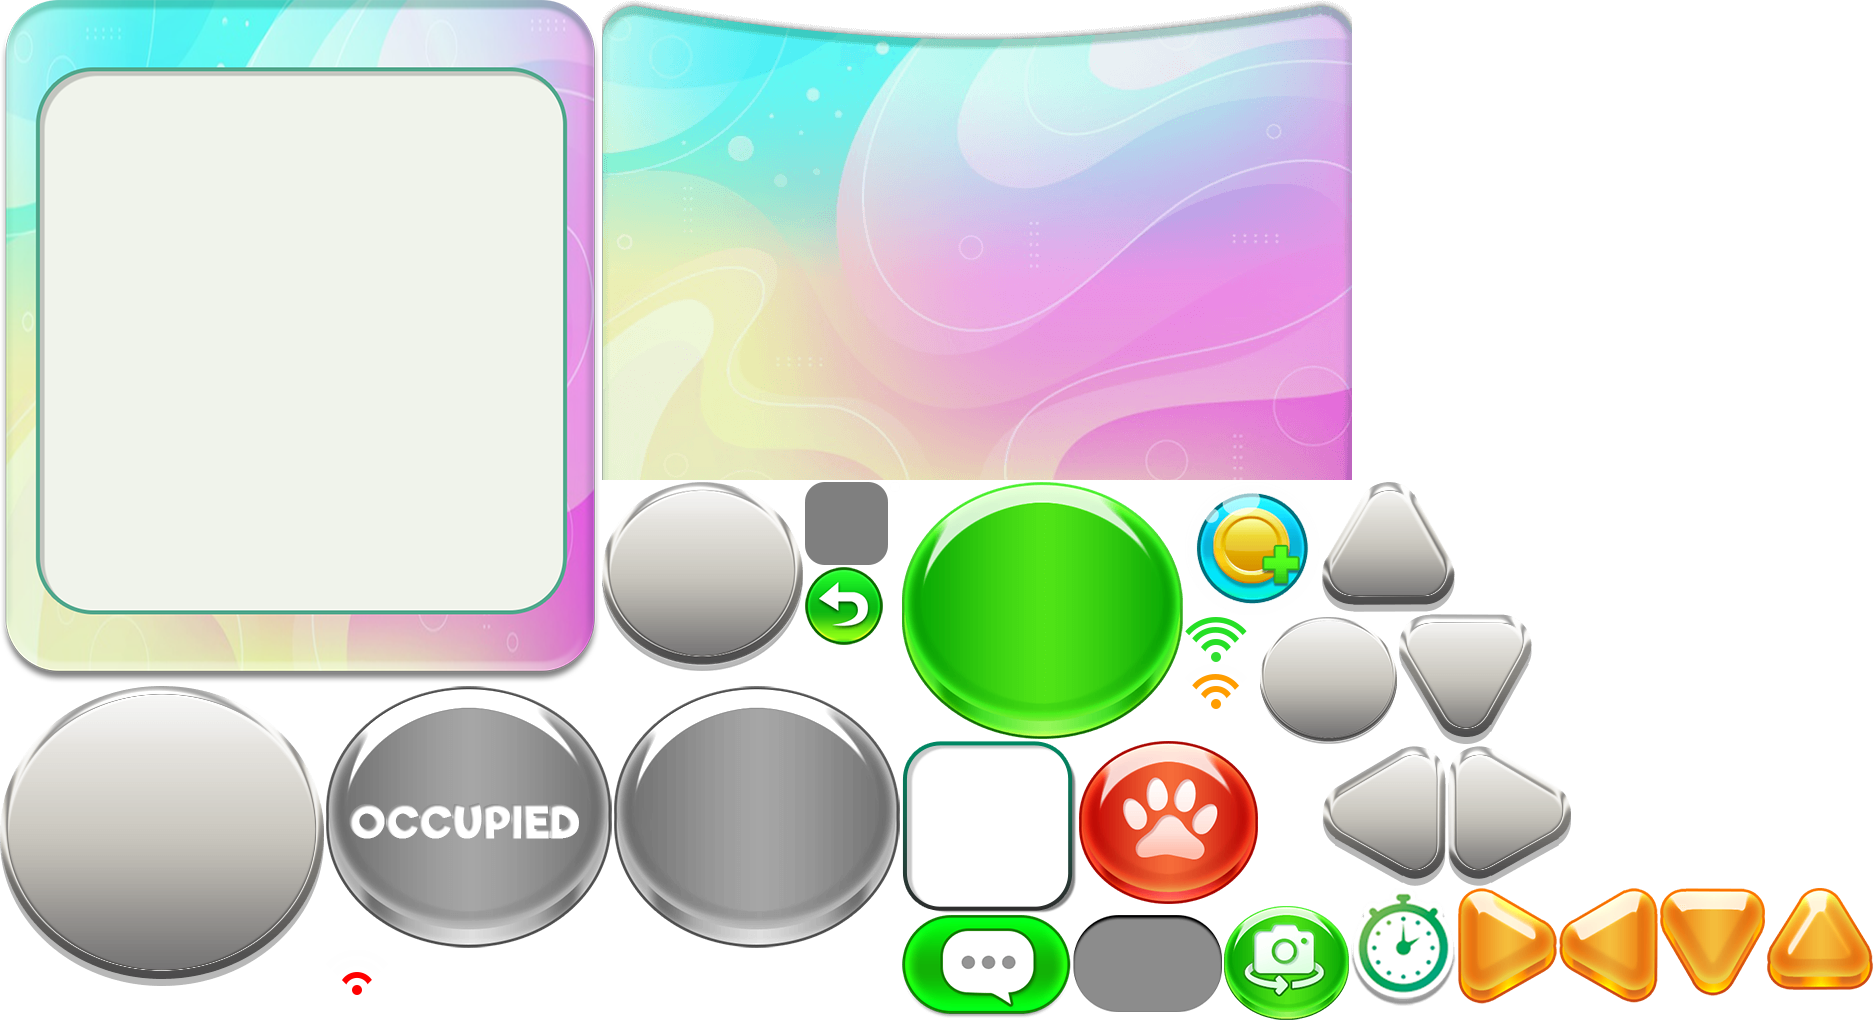
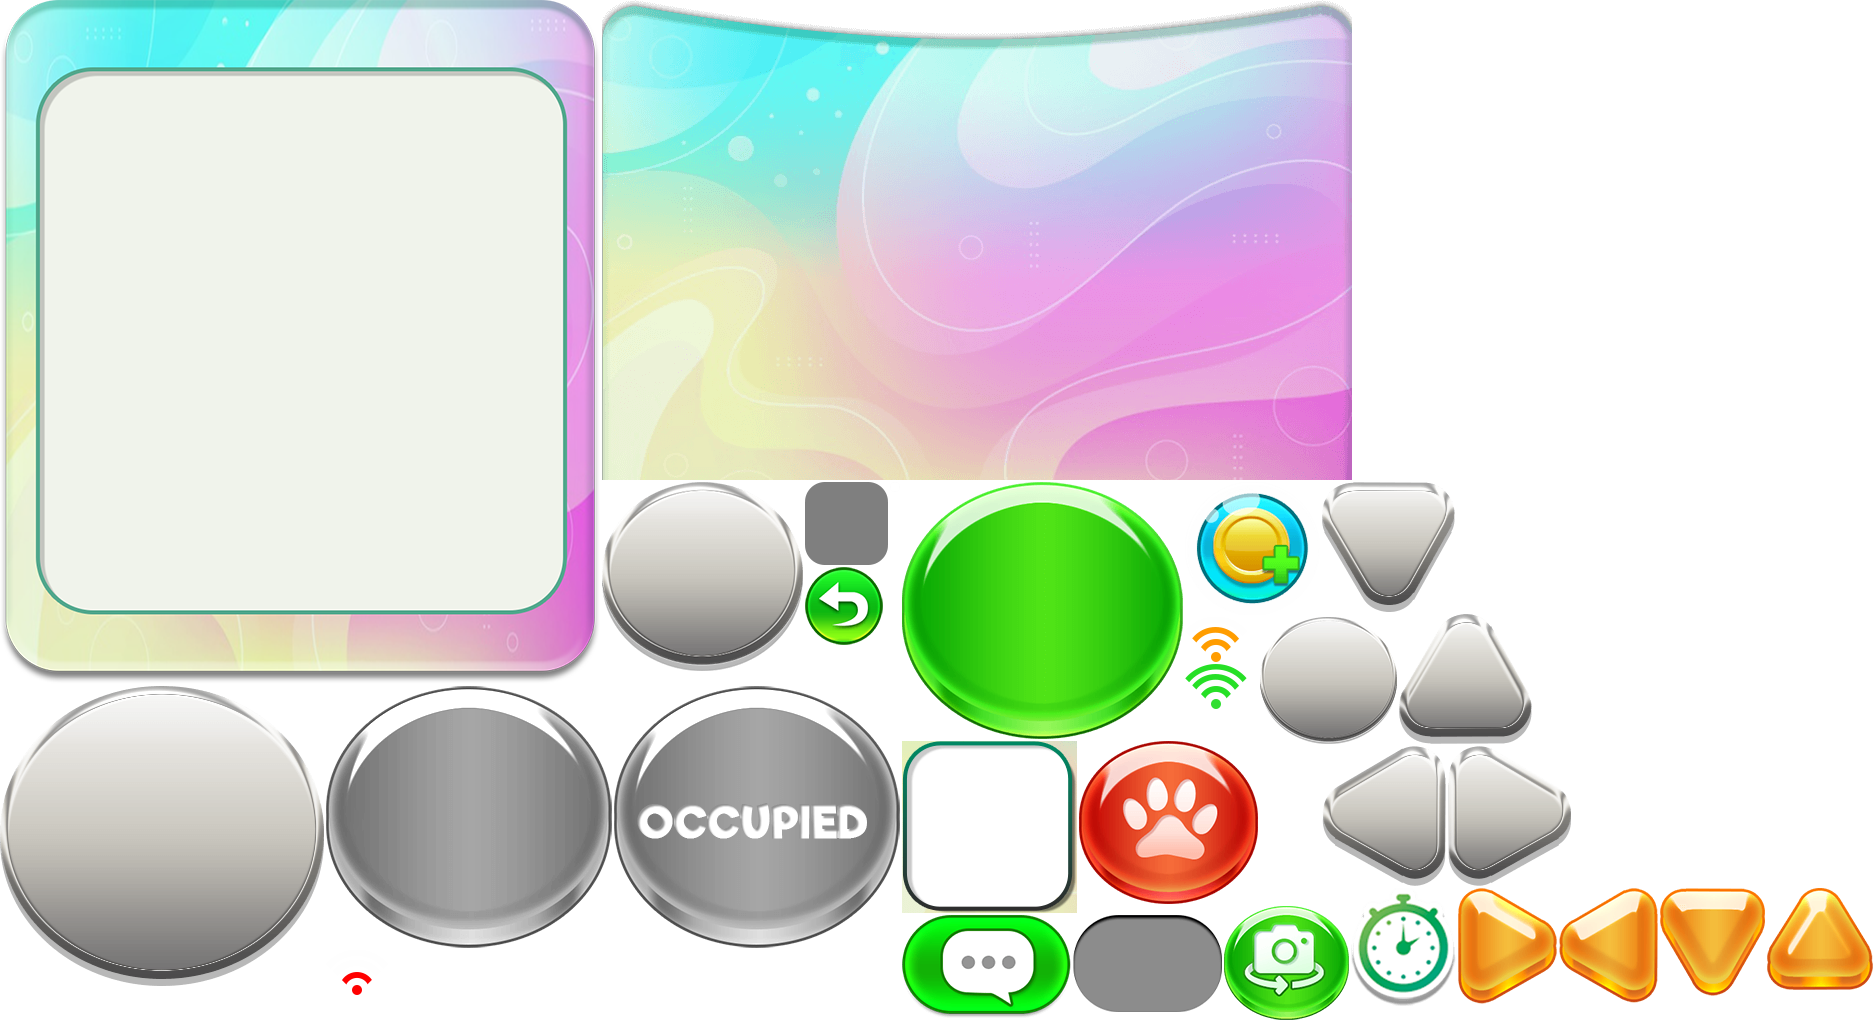
add controll bar

diff --git a/src/siene/video/video/video.component.ts b/src/siene/video/video/video.component.ts
@@ -1,14 +1,17 @@
 import { MainPage } from './../../dynamic-layer/MainPage.component';
-import { Component, OnInit, OnDestroy } from '@angular/core';
+import { Component, OnDestroy } from '@angular/core';
 import { MachineData } from 'src/service/machine-data';
 import { SocketIO } from 'src/service/socketIO';
+import { HttpClient } from '@angular/common/http';
+import { UIComponent } from '../../UIComponent';
+import { BitmapData } from '../../../basicUI/image/bitmap-data';
 
 @Component({
   selector: 'app-video',
   templateUrl: './video.component.html',
   styleUrls: ['./video.component.css']
 })
-export class VideoComponent implements OnInit, MainPage, OnDestroy {
+export class VideoComponent extends UIComponent implements MainPage, OnDestroy {
   pageHeight: number = 0;
   emptyCallback: Function | null = null;
 
@@ -17,9 +20,14 @@ export class VideoComponent implements OnInit, MainPage, OnDestroy {
 
   private loadingStript!: HTMLScriptElement;
   private loadingScriptList: string[] = [];
-  constructor() { }
 
-  ngOnInit() {
+  turnCameraBtn!: BitmapData;
+  constructor(public http: HttpClient) {
+    super(http);
+    this.textureUrl = "assets/control_bar/control_bar.json";
+  }
+
+  initUI() {
     SocketIO.instance.joinRoom( this.data.mac_addr, this.onRoomCmd );
     this.loadingScriptList = [
       "https://cdnjs.cloudflare.com/ajax/libs/webrtc-adapter/6.4.0/adapter.min.js",
@@ -28,6 +36,8 @@ export class VideoComponent implements OnInit, MainPage, OnDestroy {
       "https://direct.hermetix.io/streamingtest.min.js"
     ];
     this.loadSriptInList();
+
+    this.turnCameraBtn = this.textureData.getTexture( "btn_return", 29, 133 );
   }
 
   setHeight( height: number ){

diff --git a/src/siene/video/control-bar/control-bar.component.ts b/src/siene/video/control-bar/control-bar.component.ts
@@ -1,0 +1,50 @@
+/*
+ * @Description:
+ * @version: 1.0
+ * @Author: Wayne Yu
+ * @Date: 2021-06-10 16:30:24
+ * @LastEditors: Wayne Yu
+ * @LastEditTime: 2021-06-10 18:12:59
+ */
+import { Component, Input, OnChanges, OnDestroy, SimpleChanges } from '@angular/core';
+import { UIFromParent } from '../../UIFromParent';
+import { BitmapData } from './../../../basicUI/image/bitmap-data';
+
+@Component({
+  selector: 'app-control-bar',
+  templateUrl: './control-bar.component.html',
+  styleUrls: ['./control-bar.component.css']
+})
+export class ControlBarComponent extends UIFromParent implements OnDestroy, OnChanges{
+
+  @Input() productImg: string = '';
+
+  controlBg!: BitmapData;
+  objectImgFrame!: BitmapData;
+  addCoin!: BitmapData;
+
+  private inited: boolean = false;
+
+  constructor() {
+    super();
+  }
+
+  initUI() {
+    if( !this.textureData ){
+
+    }
+
+    this.controlBg = this.textureData.getTexture( "ingame_bottom_bg" );
+    this.objectImgFrame = this.textureData.getTexture( "object_info", 32, 255 );
+    this.addCoin = this.textureData.getTexture( "btn_charge", 35, 40 );
+
+    this.inited = true;
+  }
+
+  ngOnChanges(changes: SimpleChanges): void {
+    if( this.textureData && !this.inited ) this.initUI();
+  }
+
+  ngOnDestroy(): void {
+  }
+}

diff --git a/src/app/app.module.ts b/src/app/app.module.ts
@@ -4,7 +4,7 @@
  * @Author: Wayne Yu
  * @Date: 2021-05-26 13:31:20
  * @LastEditors: Wayne Yu
- * @LastEditTime: 2021-06-10 16:22:11
+ * @LastEditTime: 2021-06-10 16:33:08
  */
 import { NgModule } from '@angular/core';
 import { BrowserModule } from '@angular/platform-browser';
@@ -24,6 +24,7 @@ import { BannerComponent } from '../siene/lobby/banner/banner.component';
 import { BottomBarComponent } from '../pagePart/bottom-bar/bottom-bar.component';
 import { ProductListComponent } from '../siene/lobby/product-list/product-list.component';
 import { ProductItemComponent } from '../siene/lobby/product-item/product-item.component';
+import { ControlBarComponent } from '../siene/video/control-bar/control-bar.component';
 
 @NgModule({
   declarations: [
@@ -40,7 +41,8 @@ import { ProductItemComponent } from '../siene/lobby/product-item/product-item.c
     BannerComponent,
     BottomBarComponent,
     ProductListComponent,
-    ProductItemComponent
+    ProductItemComponent,
+    ControlBarComponent
   ],
   imports: [
     BrowserModule,

diff --git a/src/siene/video/control-bar/control-bar.component.spec.ts b/src/siene/video/control-bar/control-bar.component.spec.ts
@@ -1,0 +1,28 @@
+/* tslint:disable:no-unused-variable */
+import { async, ComponentFixture, TestBed } from '@angular/core/testing';
+import { By } from '@angular/platform-browser';
+import { DebugElement } from '@angular/core';
+
+import { ControlBarComponent } from './control-bar.component';
+
+describe('ControlBarComponent', () => {
+  let component: ControlBarComponent;
+  let fixture: ComponentFixture<ControlBarComponent>;
+
+  beforeEach(async(() => {
+    TestBed.configureTestingModule({
+      declarations: [ ControlBarComponent ]
+    })
+    .compileComponents();
+  }));
+
+  beforeEach(() => {
+    fixture = TestBed.createComponent(ControlBarComponent);
+    component = fixture.componentInstance;
+    fixture.detectChanges();
+  });
+
+  it('should create', () => {
+    expect(component).toBeTruthy();
+  });
+});

diff --git a/src/siene/UIComponent.ts b/src/siene/UIComponent.ts
@@ -1,3 +1,11 @@
+/*
+ * @Description:
+ * @version: 1.0
+ * @Author: Wayne Yu
+ * @Date: 2021-05-27 13:34:15
+ * @LastEditors: Wayne Yu
+ * @LastEditTime: 2021-06-10 18:03:54
+ */
 import { Component, OnInit } from '@angular/core';
 import { HttpClient } from '@angular/common/http';
 import { TextureData } from '../basicUI/image/texture-data';
@@ -18,8 +26,6 @@ export class UIComponent implements OnInit {
 
   async ngOnInit() {
     this.textureJson = await this.http.get(this.textureUrl).toPromise();
-    console.log(this.textureUrl);
-    console.log('initData 执行完成');
 
     this.textureData = new TextureData();
     this.textureData.setFile( this.textureUrl.substr( 0, this.textureUrl.lastIndexOf( "/" ) + 1 ) + this.textureJson.file, this.textureJson.frames );

diff --git a/src/siene/video/control-bar/control-bar.component.html b/src/siene/video/control-bar/control-bar.component.html
@@ -1,0 +1,21 @@
+<!--
+ * @Description:
+ * @version: 1.0
+ * @Author: Wayne Yu
+ * @Date: 2021-06-10 16:30:24
+ * @LastEditors: Wayne Yu
+ * @LastEditTime: 2021-06-10 18:19:11
+-->
+<div class="control_bar">
+  <app-image [imgData]="controlBg"></app-image>
+  <div class="productIconContainer">
+    <img src="{{productImg}}" width="175" height="172">
+  </div>
+  <app-image [imgData]="objectImgFrame"></app-image>
+  <!-- <app-scale-button [buttonBg]="'btn_camera_bg'" [buttonAssets]="'btn_camera'" [textureData]="textureData"></app-scale-button> -->
+  <div>
+    <app-image [imgData]="addCoin"></app-image>
+    <!-- <app-image [imgData]="turnCameraBtn"></app-image>
+    <app-image [imgData]="turnCameraBtn"></app-image> -->
+  </div>
+</div>

diff --git a/src/siene/video/video/video.component.html b/src/siene/video/video/video.component.html
@@ -4,9 +4,11 @@
  * @Author: Wayne Yu
  * @Date: 2021-05-26 16:46:50
  * @LastEditors: Wayne Yu
- * @LastEditTime: 2021-06-10 16:16:40
+ * @LastEditTime: 2021-06-10 17:45:38
 -->
 <app-head-bar></app-head-bar>
 <div id="stream"></div>
-<div class="control"><img src="assets/control/btn_play01.png" (click)="startMachine()" (window:keydown)="onKeyDown($event)" (window:keyup)="onKeyUp($event)">
-</div>
+<!-- <div class="control"><img src="assets/control/btn_play01.png" (click)="startMachine()" (window:keydown)="onKeyDown($event)" (window:keyup)="onKeyUp($event)">
+</div> -->
+<app-image [imgData]="turnCameraBtn"></app-image>
+<app-control-bar [textureData]="textureData" [productImg]="data.img"></app-control-bar>

diff --git a/src/siene/video/control-bar/control-bar.component.css b/src/siene/video/control-bar/control-bar.component.css
@@ -1,0 +1,10 @@
+.control_bar{
+  position: absolute;
+  bottom: 0px;
+  height: 480px;
+}
+.productIconContainer{
+  position: absolute;
+  left: 32px;
+  top: 255px;
+}
